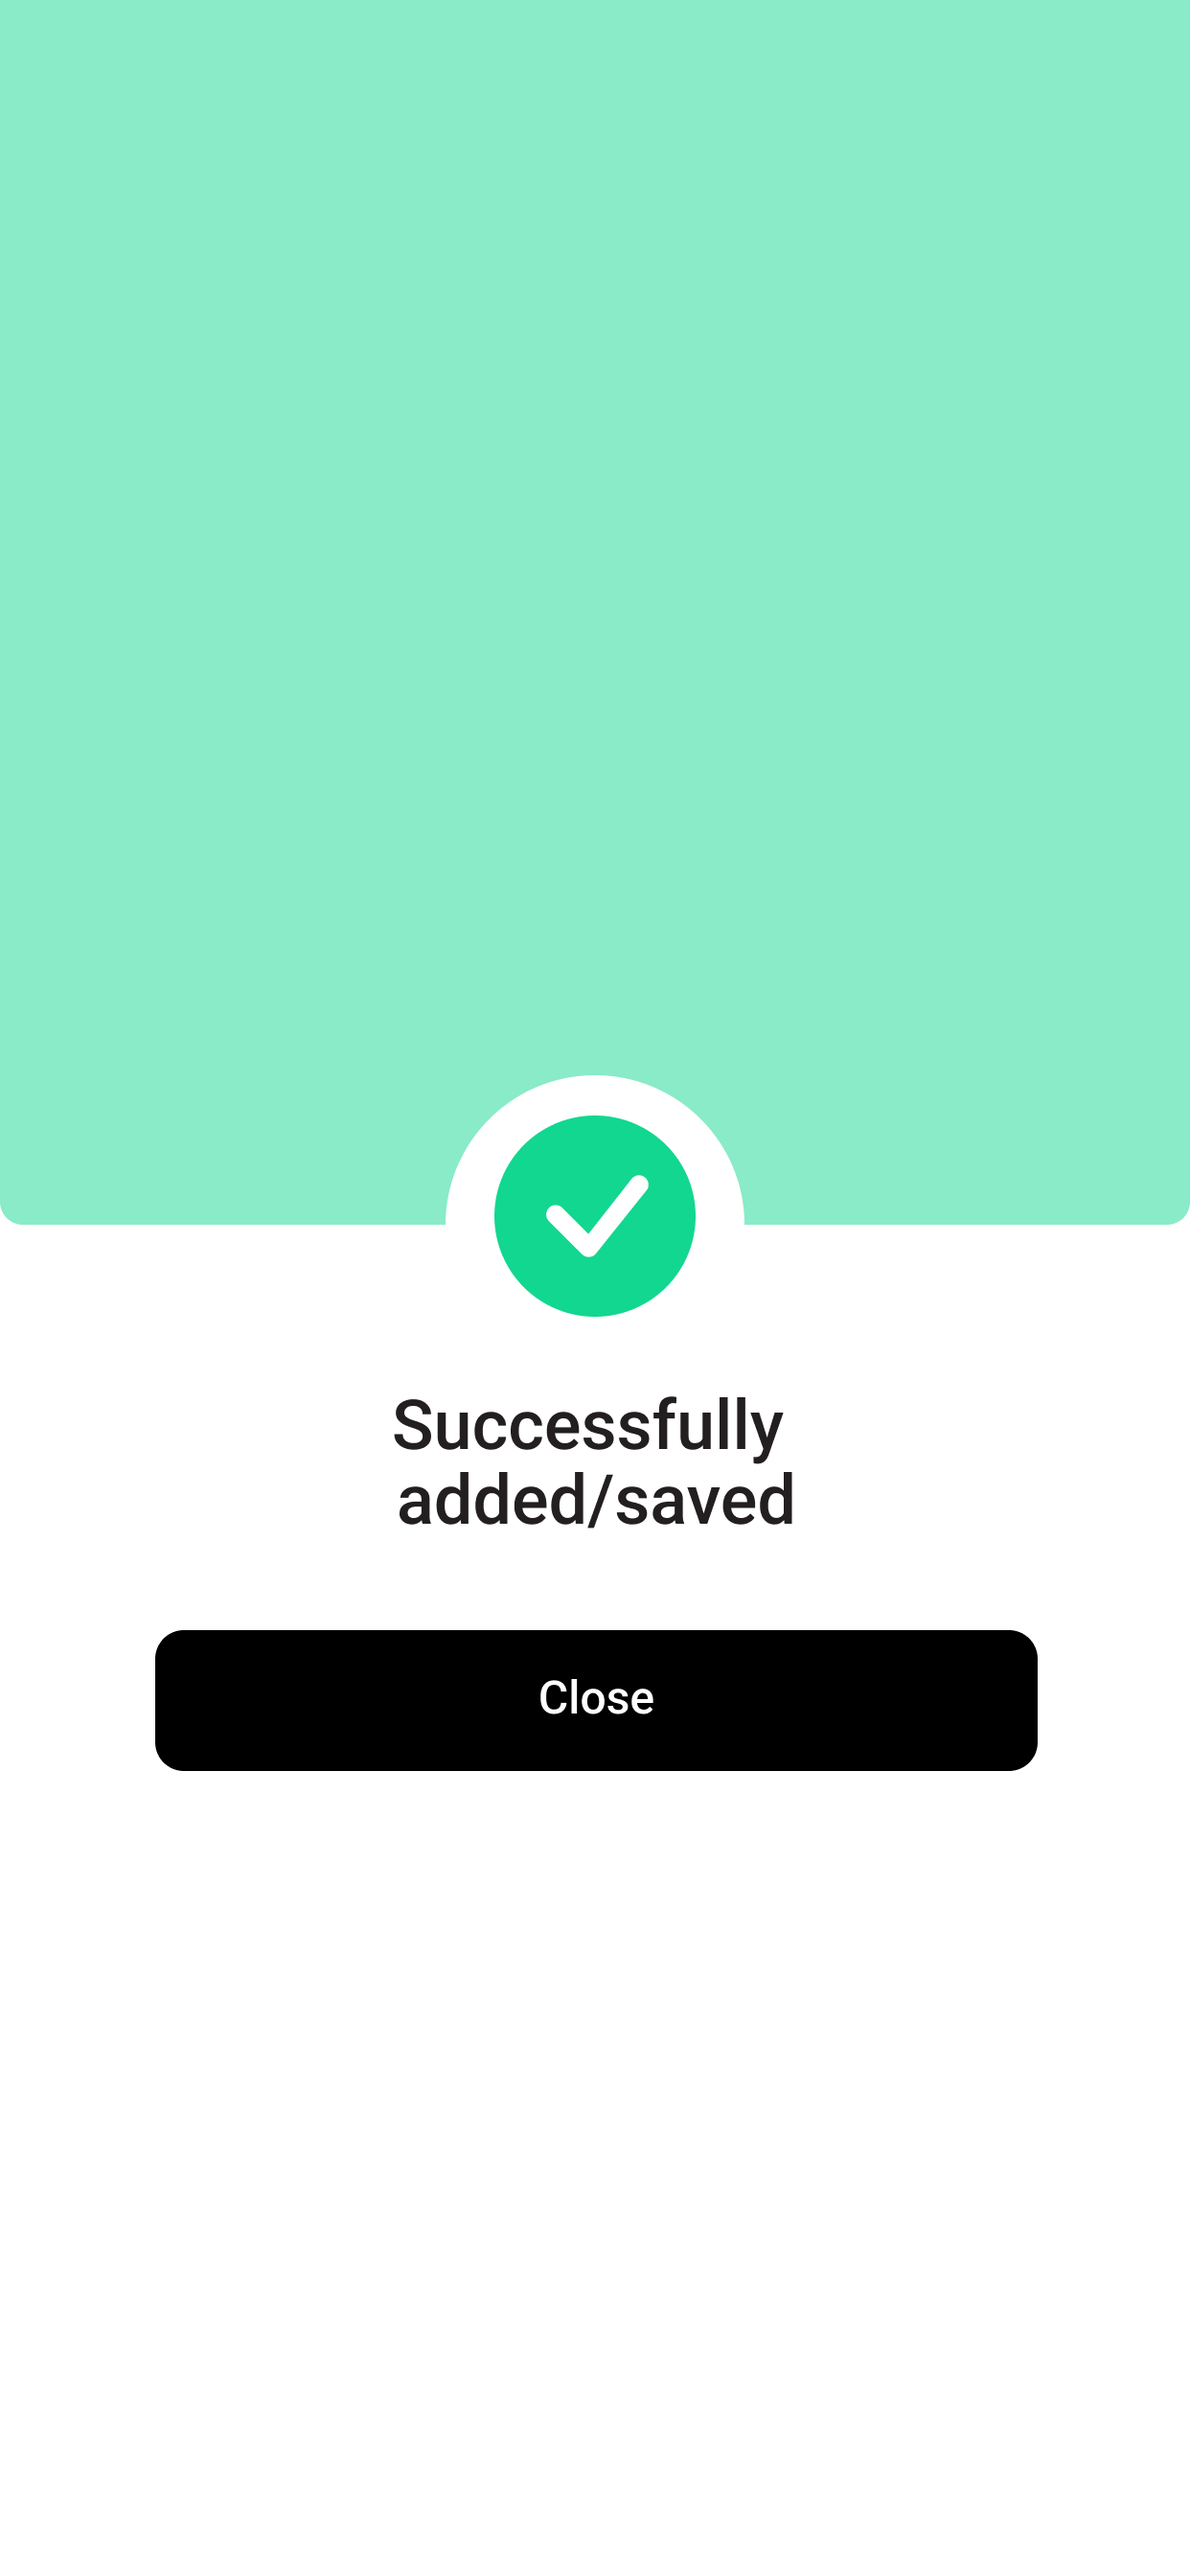
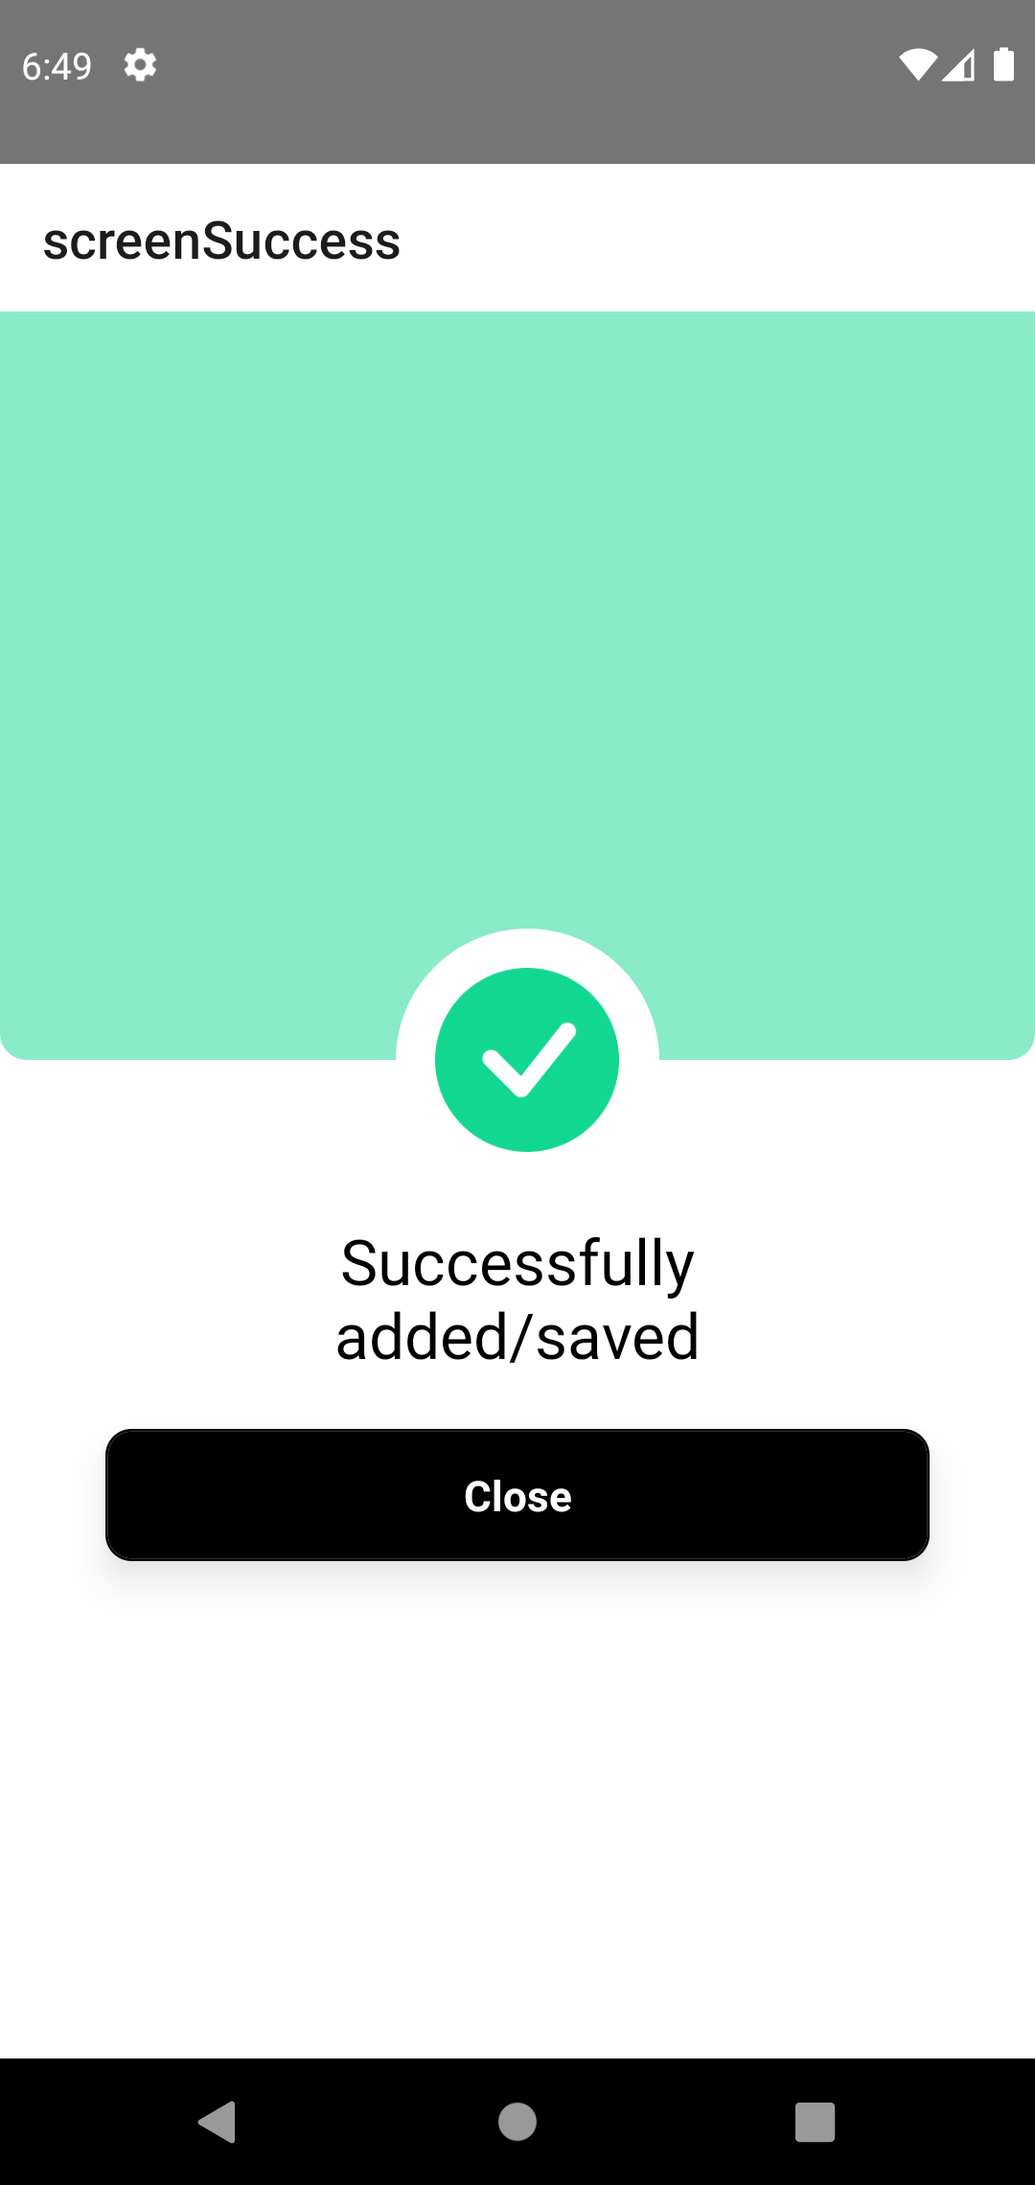
success screen added

Changed region(s): [[0.0, 0.0, 1.0, 0.1557], [0.0, 0.4048, 1.0, 0.7162], [0.0, 0.9342, 1.0, 1.0]]

diff --git a/screens/screen-success/index.js b/screens/screen-success/index.js
@@ -1,14 +1,21 @@
 import React from "react";
-import {
-  Text,
-  View,
-  StyleSheet
-} from "react-native";
+import { Text, View, StyleSheet, Image, Pressable } from "react-native";
 
 const Success = () => {
   return (
     <View style={styles.container}>
-      <Text style={styles.heading}>Success</Text>
+      <View style={styles.upper}>
+        <View style={styles.iconContainer}>
+          <Image
+            source={require("./assets/successIcon.png")}
+            style={styles.icon}
+          />
+        </View>
+      </View>
+      <View style={styles.lower}>
+        <Text style={styles.heading}>Successfully{"\n"}added/saved</Text>
+        <Button buttonText="Close" style={styles.button} />
+      </View>
     </View>
   );
 };
@@ -17,9 +24,104 @@ const styles = StyleSheet.create({
     flex: 1,
     backgroundColor: "#fff"
   },
+  upper: {
+    flex: 3,
+    backgroundColor: "#89EBC8",
+    borderBottomLeftRadius: 10,
+    borderBottomRightRadius: 10
+  },
+  lower: {
+    flex: 4
+  },
+  iconContainer: {
+    width: 100,
+    height: 100,
+    backgroundColor: "#fff",
+    borderRadius: 50,
+    justifyContent: "center",
+    alignItems: "center",
+    position: "absolute",
+    bottom: -50,
+    left: 150
+  },
+  icon: {
+    width: 70,
+    height: 70
+  },
   heading: {
-    fontSize: 20
+    fontSize: 24,
+    textAlign: "center",
+    alignSelf: "center",
+    marginTop: 60
+  },
+  button: {
+    marginTop: 20,
+    marginHorizontal: 40
   }
 });
 
 export default Success;
+
+const Button = params => {
+  const backgroundColor = params.backgroundColor || "#000";
+  const textColor = params.textColor || "#fff";
+  const btnStyle = {
+    backgroundColor: backgroundColor,
+    borderColor: params.borderColor || backgroundColor,
+    borderWidth: 1
+  };
+  const btnText = {
+    color: textColor
+  };
+  return (
+    <View style={[buttonStyles.btnContainer, params.style]}>
+      <View style={!params.hideShadow ? buttonStyles.shadowContainer : null}>
+        <Pressable
+          style={[buttonStyles.btn, btnStyle]}
+          onPress={params.onPress}>
+          <Text style={[buttonStyles.btnText, btnText]}>
+            {params.buttonText}
+          </Text>
+          <View style={styles.childrenContainer}>{params.children}</View>
+        </Pressable>
+      </View>
+    </View>
+  );
+};
+
+const buttonStyles = StyleSheet.create({
+  btnContainer: {
+    justifyContent: "center"
+  },
+  shadowContainer: {
+    shadowColor: "rgba(0, 0, 0, 0.5)",
+    shadowOffset: {
+      width: 0,
+      height: 5
+    },
+    shadowOpacity: 0.5,
+    shadowRadius: 10,
+    elevation: 10,
+    backgroundColor: "#fff",
+    borderRadius: 10
+  },
+  btn: {
+    height: 50,
+    padding: 10,
+    paddingHorizontal: 25,
+    borderRadius: 10,
+    justifyContent: "center",
+    alignItems: "center",
+
+    flexDirection: "row"
+  },
+  btnText: {
+    color: "#fff",
+    fontSize: 16,
+    fontWeight: "bold"
+  },
+  childrenContainer: {
+    justifyContent: "center",
+    alignItems: "center"
+  }
+});

diff --git a/modules/index.js b/modules/index.js
@@ -2,7 +2,7 @@ import mods from "./*/index.js";
 import { getModules } from "./modules.js";
 
 export const modules = getModules(mods);
-export const initialRoute = "screenSubscriptionTrial";
+export const initialRoute = "screenSuccess";
 // export const initialRoute = modules[0].value.title;
 export const slices = modules
   .filter(mod => mod.value.slice)
